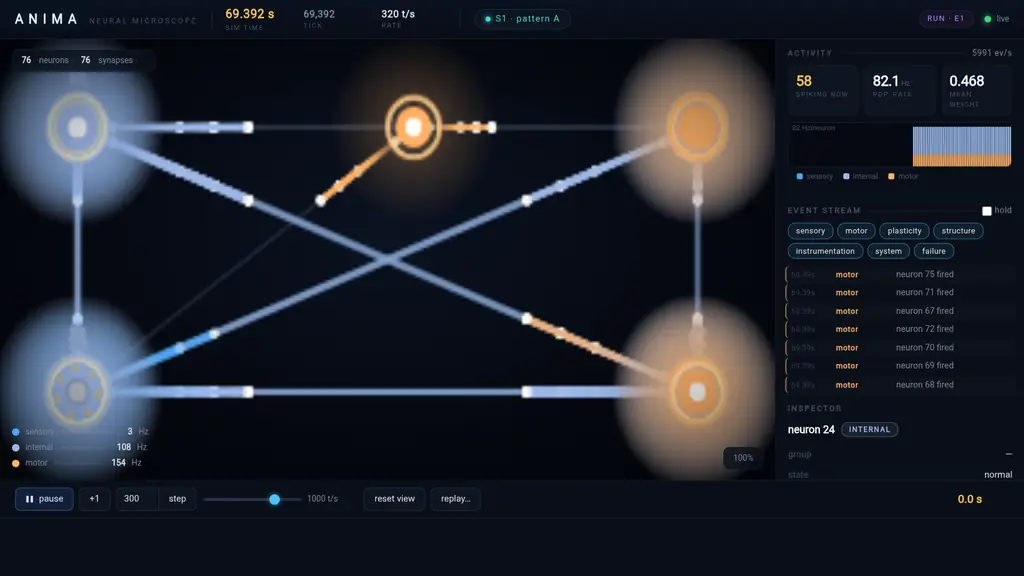
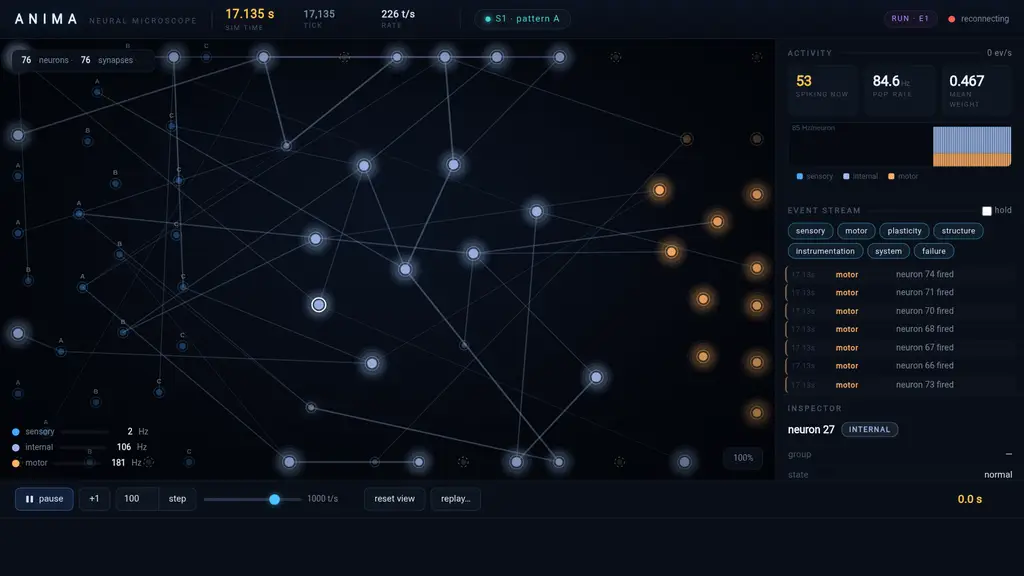
Fix viz canvas at 300x150 default + screen-space neuron picking
Root cause of the "slideshow" look: the render buffer stayed at the
browser's 300x150 canvas default (sizeCanvas only ran on window resize),
so the full-pane display stretched a tiny framebuffer — blurry, laggy,
and hit-testing missed because world/screen scaling disagreed.

- draw() now calls sizeCanvas() every frame (cheap dimension check),
  so the buffer always matches the laid-out pane at devicePixelRatio
- picking rewritten in screen space: pickAt(clientX, clientY) maps
  cursor → world through the camera and hit-tests neurons with a
  generous 14-unit radius (zoom-independent); synapse picking only
  when zoomed in
- hover: pointer cursor over neurons/synapses + white highlight ring
  on the hovered neuron; empty-space click clears selection
- pulse rendering drops per-pulse createLinearGradient (900 gradients
  per frame at burst) for flat-color fading strokes; activity glow
  swaps per-neuron radial gradients for 3 concentric arcs
- measured 62 fps at full 1291x735 during S1 bursts (was ~stretched
  slideshow); real-mouse click → inspector verified live and replay

diff --git a/crates/anima-viz/web/index.html b/crates/anima-viz/web/index.html
@@ -343,7 +343,7 @@ const S = {
   expId: "", connected: false,
   neurons: new Map(),   // id -> {x,y,px,py,cls,group,rate,state,flash,spikes:[], reason, born}
   synapses: new Map(),  // id -> {src,dst,w,flashT,flashDir,appear,pulses:[]}
-  selected: null, selectedEdge: null, drag: null,
+  selected: null, selectedEdge: null, drag: null, hover: null,
   cam: { x: 0, y: 0, z: 1 },
   evCounts: {},
   throughput: 0,
@@ -827,6 +827,7 @@ function s2w(x, y) {
 }
 
 function draw() {
+  sizeCanvas(canvas); // self-healing: keeps buffer matched to layout size
   const W = canvas.width, H = canvas.height;
   ctx.clearRect(0, 0, W, H);
   ctx.save();
@@ -851,8 +852,9 @@ function draw() {
     }
     ctx.beginPath(); ctx.moveTo(a.x, a.y); ctx.lineTo(b.x, b.y); ctx.stroke();
   }
-
   // --- traveling spike pulses along synapses (pre→post direction)
+  // cheap draw: two-segment fading stroke, no per-pulse gradient objects
+  ctx.lineCap = "round";
   for (let i = S.pulses.length - 1; i >= 0; i--) {
     const pu = S.pulses[i];
     pu.p += 0.055;
@@ -861,18 +863,15 @@ function draw() {
     const px = pu.ax + (pu.bx - pu.ax) * pu.p;
     const py = pu.ay + (pu.by - pu.ay) * pu.p;
     const fade = Math.sin(pu.p * Math.PI);
-    // comet tail
-    const tx = pu.ax + (pu.bx - pu.ax) * Math.max(0, pu.p - 0.12);
-    const ty = pu.ay + (pu.by - pu.ay) * Math.max(0, pu.p - 0.12);
-    const grad = ctx.createLinearGradient(tx, ty, px, py);
-    grad.addColorStop(0, `rgba(${r},${g},${b2},0)`);
-    grad.addColorStop(1, `rgba(${r},${g},${b2},${0.85 * fade})`);
-    ctx.strokeStyle = grad;
-    ctx.lineWidth = (1.2 + pu.w * 2.6) * zInv;
+    const tx = pu.ax + (pu.bx - pu.ax) * Math.max(0, pu.p - 0.15);
+    const ty = pu.ay + (pu.by - pu.ay) * Math.max(0, pu.p - 0.15);
+    ctx.strokeStyle = `rgba(${r},${g},${b2},${0.8 * fade})`;
+    ctx.lineWidth = (1.4 + pu.w * 2.4) * zInv;
     ctx.beginPath(); ctx.moveTo(tx, ty); ctx.lineTo(px, py); ctx.stroke();
-    ctx.fillStyle = `rgba(255,255,255,${0.9 * fade})`;
-    ctx.beginPath(); ctx.arc(px, py, 1.8 * zInv, 0, Math.PI * 2); ctx.fill();
+    ctx.fillStyle = `rgba(255,255,255,${0.85 * fade})`;
+    ctx.beginPath(); ctx.arc(px, py, 1.7 * zInv, 0, Math.PI * 2); ctx.fill();
   }
+  ctx.lineCap = "butt";
 
   // --- shockwave halos from spikes (activity makes space ring)
   for (let i = S.halo.length - 1; i >= 0; i--) {
@@ -885,20 +884,20 @@ function draw() {
     ctx.beginPath(); ctx.arc(h2.x, h2.y, h2.r, 0, Math.PI * 2); ctx.stroke();
   }
 
-  // --- neurons: sensory column glow / internal orbit / motor column glow
   for (const n of S.neurons.values()) {
     const heat = Math.min(1, n.rate / 45);          // sustained activity
     const live = Math.max(heat * 0.9, n.flash);      // spike flash on top
     const [r, g, b2] = POP_RGB[n.cls] || POP_RGB.internal;
     const quiet = n.state !== "normal";
+    const hovered = S.hover === n.id;
     const radius = n.cls === "input" ? 5.5 : n.cls === "output" ? 7 : 4.5 + Math.min(3.5, n.rate / 30);
-    // outer soft glow (activity halo) — inactive neurons stay dim
-    if (!quiet && live > 0.03) {
-      const gr = ctx.createRadialGradient(n.x, n.y, radius * 0.4, n.x, n.y, radius + 16 + live * 10);
-      gr.addColorStop(0, `rgba(${r},${g},${b2},${0.30 * live})`);
-      gr.addColorStop(1, `rgba(${r},${g},${b2},0)`);
-      ctx.fillStyle = gr;
-      ctx.beginPath(); ctx.arc(n.x, n.y, radius + 16 + live * 10, 0, Math.PI * 2); ctx.fill();
+    // activity halo: three concentric translucent arcs ≈ radial falloff
+    if (!quiet && live > 0.05) {
+      for (let k = 0; k < 3; k++) {
+        const gr = radius + 4 + k * 5 + live * 8;
+        ctx.fillStyle = `rgba(${r},${g},${b2},${(0.16 - k * 0.045) * live})`;
+        ctx.beginPath(); ctx.arc(n.x, n.y, gr, 0, Math.PI * 2); ctx.fill();
+      }
     }
     // core
     const coreA = quiet ? 0.16 : 0.3 + 0.7 * live;
@@ -921,9 +920,10 @@ function draw() {
     if (n.state === "dormant") { ctx.strokeStyle = "rgba(255,194,75,0.55)"; ctx.setLineDash([3,4]); }
     else if (n.state === "retired") { ctx.strokeStyle = "rgba(255,93,93,0.5)"; ctx.setLineDash([1,4]); }
     else if (S.selected === n.id) { ctx.strokeStyle = "#ffffff"; ctx.setLineDash([]); }
+    else if (hovered) { ctx.strokeStyle = "rgba(255,255,255,0.75)"; ctx.setLineDash([]); }
     else if (!quiet) { ctx.strokeStyle = `rgba(${r},${g},${b2},${0.25 + 0.3 * heat})`; ctx.setLineDash([]); }
     else { ctx.strokeStyle = "rgba(84,96,118,0.35)"; ctx.setLineDash([]); }
-    ctx.lineWidth = 1.3 * zInv;
+    ctx.lineWidth = (S.selected === n.id || hovered ? 2 : 1.3) * zInv;
     ctx.beginPath(); ctx.arc(n.x, n.y, radius + 3.5, 0, Math.PI * 2); ctx.stroke();
     ctx.setLineDash([]);
     // group label
@@ -935,7 +935,6 @@ function draw() {
       ctx.textAlign = "left";
     }
   }
-
   // --- selected edge highlight
   if (S.selectedEdge != null) {
     const s = S.synapses.get(S.selectedEdge);
@@ -1179,29 +1178,67 @@ document.getElementById("rp-load").onclick = () => {
   window.open(`http://${location.hostname}:8789/?run=${encodeURIComponent(modalSel.name)}`, "_blank");
 };
 
-// ---------- picking / inspector ----------
-canvas.onmousedown = (e) => {
+// ---------- picking / hover / inspector ----------
+// Hit-test in SCREEN space with a generous radius so neurons feel
+// directly clickable; world coords only matter for drag/pan math.
+function pickAt(clientX, clientY) {
   const rect = canvas.getBoundingClientRect();
-  const [wx, wy] = s2w((e.clientX - rect.left) * devicePixelRatio, (e.clientY - rect.top) * devicePixelRatio);
-  let best = null, bestD = 18;
+  const sx = (clientX - rect.left) * (canvas.width / rect.width);
+  const sy = (clientY - rect.top) * (canvas.height / rect.height);
+  const [wx, wy] = s2w(sx, sy);
+  // 14 world-units ≈ visual node + ring; scaled so zoom doesn't shrink hits
+  const hitR = 14 / S.cam.z;
+  let best = null, bestD = hitR;
   for (const n of S.neurons.values()) {
     const d = Math.hypot(n.x - wx, n.y - wy);
     if (d < bestD) { bestD = d; best = n; }
   }
-  if (best) {
-    S.selected = best.id; S.selectedEdge = null;
-    S.drag = best.id; S.dragX = best.x; S.dragY = best.y;
+  if (best) return { type: "neuron", n: best };
+  // edge pick only when reasonably zoomed (avoid noisy hits)
+  if (S.cam.z > 0.8) {
+    let bestE = null, bestEd = 7 / S.cam.z;
+    for (const [id, s] of S.synapses) {
+      const a = S.neurons.get(s.src), b = S.neurons.get(s.dst);
+      if (!a || !b) continue;
+      const d = distSeg(wx, wy, a.x, a.y, b.x, b.y);
+      if (d < bestEd) { bestEd = d; bestE = id; }
+    }
+    if (bestE != null) {
+      return { type: "synapse", s: S.synapses.get(bestE), id: bestE };
+    }
+  }
+  return null;
+}
+
+// hover: pointer cursor + soft hover highlight make targets discoverable
+canvas.addEventListener("mousemove", (e) => {
+  if (S.drag != null || S.panning) return;
+  const hit = pickAt(e.clientX, e.clientY);
+  const newHover = hit ? (hit.type === "neuron" ? hit.n.id : null) : null;
+  S.hover = newHover;
+  canvas.style.cursor = hit ? "pointer" : "grab";
+});
+
+canvas.onmousedown = (e) => {
+  const hit = pickAt(e.clientX, e.clientY);
+  if (hit && hit.type === "neuron") {
+    S.selected = hit.n.id; S.selectedEdge = null;
+    S.drag = hit.n.id; S.dragX = hit.n.x; S.dragY = hit.n.y;
+    S.panning = false;
     renderInspector();
     return;
   }
-  let bestE = null, bestEd = 6;
-  for (const [id, s] of S.synapses) {
-    const a = S.neurons.get(s.src), b = S.neurons.get(s.dst);
-    if (!a || !b) continue;
-    const d = distSeg(wx, wy, a.x, a.y, b.x, b.y);
-    if (d < bestEd) { bestEd = d; bestE = id; }
+  if (hit && hit.type === "synapse") {
+    S.selectedEdge = hit.id; S.selected = null;
+    S.panning = false;
+    renderInspector();
+    return;
   }
-  if (bestE != null) { S.selectedEdge = bestE; S.selected = null; renderInspector(); }
+  // empty space: start pan; clicking empty space deselects
+  S.panning = true;
+  const rect = canvas.getBoundingClientRect();
+  S.panLastX = (e.clientX - rect.left) * devicePixelRatio;
+  S.panLastY = (e.clientY - rect.top) * devicePixelRatio;
 };
 canvas.onmousemove = (e) => {
   if (S.drag == null) {
@@ -1214,17 +1251,16 @@ canvas.onmousemove = (e) => {
     return;
   }
   const rect = canvas.getBoundingClientRect();
-  const [wx, wy] = s2w((e.clientX - rect.left) * devicePixelRatio, (e.clientY - rect.top) * devicePixelRatio);
+  const [wx, wy] = s2w((e.clientX - rect.left) * (canvas.width / rect.width), (e.clientY - rect.top) * (canvas.height / rect.height));
   S.dragX = wx; S.dragY = wy;
 };
-canvas.onmouseup = () => { S.drag = null; S.panning = false; };
-canvas.addEventListener("mousedown", (e) => {
-  if (e.detail > 1) return;
-  S.panning = true;
-  const rect = canvas.getBoundingClientRect();
-  S.panLastX = (e.clientX - rect.left) * devicePixelRatio;
-  S.panLastY = (e.clientY - rect.top) * devicePixelRatio;
-});
+canvas.onmouseup = (e) => {
+  // click on empty space (no drag movement) clears selection
+  if (S.drag == null && !S.movedPan) {
+    S.selected = null; S.selectedEdge = null; renderInspector();
+  }
+  S.drag = null; S.panning = false; S.movedPan = false;
+};
 canvas.addEventListener("wheel", (e) => {
   e.preventDefault();
   const f = e.deltaY < 0 ? 1.12 : 1 / 1.12;
